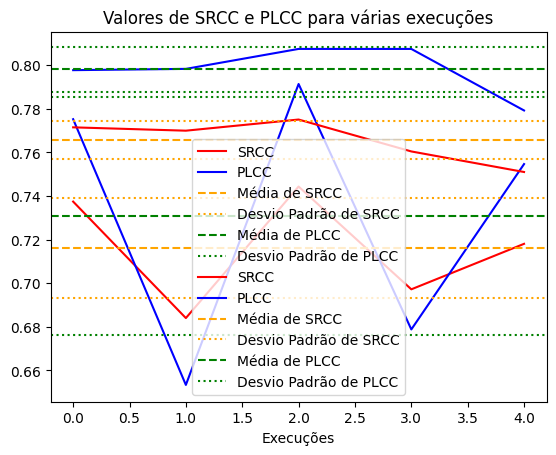
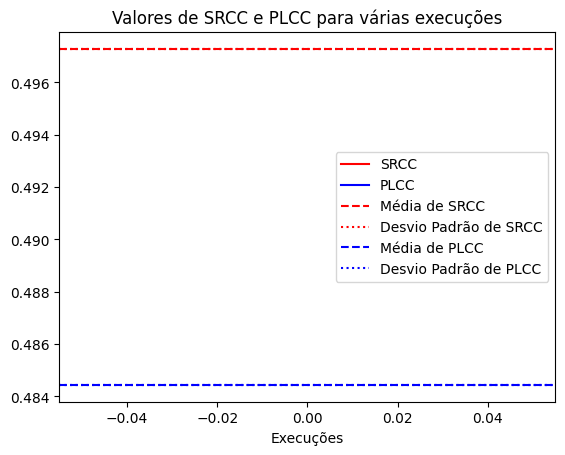
Adding regularization l2 and mos_zscore

diff --git a/image_classification/diqa_training.py b/image_classification/diqa_training.py
@@ -13,7 +13,7 @@ from train_test_nn.train import train_val_diqa
 from train_test_nn.test import validate_model_regression
 
 
-def execute_diqa(epochs:int, dataset_name:str, batch_size:int=1):
+def execute_diqa(epochs:int, model_name:str, dataset_name:str, batch_size:int=1):
     #O batch size não influencia o live, pois, como as imagens possuem tamanho diferente, é mais difícil de fazer os batchs (teria que mexer na função sampler)
     if dataset_name=='live':
         dataset = get_dataset('live', 'data/Live_IQA_release2/')
@@ -21,7 +21,7 @@ def execute_diqa(epochs:int, dataset_name:str, batch_size:int=1):
     elif dataset_name=='koniq-10k':
         dataset = get_dataset('koniq-10k', 'data/KonIQ-10k/', 'data/KonIQ-10k/512x384/')
     else:
-        raise Exception("não tem dataset")
+        raise Exception("Não tem esse dataset")
     
     train_dataset, test_dataset = random_split(dataset, [0.8,0.2]) 
 
@@ -30,45 +30,28 @@ def execute_diqa(epochs:int, dataset_name:str, batch_size:int=1):
 
 
     torch.cuda.init()
-    device = torch.device('cuda:0' if torch.cuda.is_available() else 'cpu')
+    device = torch.device('cuda:2' if torch.cuda.is_available() else 'cpu')
     torch.cuda.empty_cache()
 
-    model = OctDIQA().to(device)
-    optimizer = torch.optim.NAdam(model.parameters(), lr = 2 * 10 ** -4, momentum_decay=0.9)
+    if model_name == 'octdiqa':
+        model = OctDIQA().to(device)
+        print("Usando OctDIQA")
+    elif model_name == 'diqa':
+        model = DIQA().to(device)
+        print("Usando DIQA")
+    else:
+        raise Exception("Não tem esse modelo")
+    
+    optimizer = torch.optim.NAdam(model.parameters(), lr = 2 * 10 ** -4, weight_decay=5*(10**-4), momentum_decay=0.9)
     criterion = torch.nn.MSELoss()
 
-    print(torch.cuda.memory_summary(device=None, abbreviated=False))
+    #print(torch.cuda.memory_summary(device=None, abbreviated=False))
 
     all_losses = train_val_diqa(model, epochs, criterion, optimizer, device, trainloader, valloader)
 
     dict_metrics, mse_total, total = validate_model_regression(model, valloader, device, coefficients=["PLCC","SRCC"])
 
     return model, dict_metrics, all_losses
-
-def execute_diqa_koniq(epochs:int):
-
-    live_dataset = get_dataset('koniq-10k', 'data/KonIQ-10k/', 'data/KonIQ-10k/512x384/')
-    train_dataset, test_dataset = random_split(live_dataset, [0.8,0.2]) 
-
-    trainloader = DataLoader(train_dataset, batch_size = 4, shuffle = True, num_workers=2, pin_memory=True)
-    valloader = DataLoader(test_dataset, batch_size = 4, shuffle = True, num_workers = 2, pin_memory=True)
-
-
-    torch.cuda.init()
-    device = torch.device('cuda:0' if torch.cuda.is_available() else 'cpu')
-    torch.cuda.empty_cache()
-
-    model = DIQA().to(device)
-    optimizer = torch.optim.NAdam(model.parameters(), lr = 2 * 10 ** -4, momentum_decay=0.9)
-    criterion = torch.nn.MSELoss()
-
-    print(torch.cuda.memory_summary(device=None, abbreviated=False))
-
-    all_losses = train_val_diqa(model, epochs, criterion, optimizer, device, trainloader, valloader)
-
-    dict_metrics, mse_total, total = validate_model_regression(model, valloader, device, coefficients=["PLCC","SRCC"])
-
-    return model, dict_metrics
 
 def image_IQA(model, image_path):
     image = Image.open(image_path).convert('RGB')
@@ -88,14 +71,15 @@ def image_IQA(model, image_path):
     return quality
     
 def plot_srcc_list(srcc_list:list, plcc_list:list, name:str):
+    plt.figure()
     plt.plot(srcc_list,color='red', label='SRCC')
     plt.plot(plcc_list, color='blue', label='PLCC')
-    plt.axhline(np.mean(srcc_list), color='orange', linestyle='--', label='Média de SRCC')
-    plt.axhline(np.mean(srcc_list) + np.std(srcc_list), color='orange', linestyle=':', label='Desvio Padrão de SRCC')
-    plt.axhline(np.mean(srcc_list) - np.std(srcc_list), color='orange', linestyle=':')
-    plt.axhline(np.mean(plcc_list), color='green', linestyle='--', label='Média de PLCC')
-    plt.axhline(np.mean(plcc_list) + np.std(plcc_list), color='green', linestyle=':', label='Desvio Padrão de PLCC')
-    plt.axhline(np.mean(plcc_list) - np.std(plcc_list), color='green', linestyle=':')
+    plt.axhline(np.mean(srcc_list), color='red', linestyle='--', label='Média de SRCC')
+    plt.axhline(np.mean(srcc_list) + np.std(srcc_list), color='red', linestyle=':', label='Desvio Padrão de SRCC')
+    plt.axhline(np.mean(srcc_list) - np.std(srcc_list), color='red', linestyle=':')
+    plt.axhline(np.mean(plcc_list), color='blue', linestyle='--', label='Média de PLCC')
+    plt.axhline(np.mean(plcc_list) + np.std(plcc_list), color='blue', linestyle=':', label='Desvio Padrão de PLCC')
+    plt.axhline(np.mean(plcc_list) - np.std(plcc_list), color='blue', linestyle=':')
     plt.legend()
     plt.xlabel("Execuções")
     plt.title("Valores de SRCC e PLCC para várias execuções")
@@ -106,9 +90,9 @@ def write_metrics_txt(srcc_list:list, plcc_list:list, all_losses:list, name:str)
         f.write(f"Média do SRCC - {np.mean(srcc_list):.4f} e desvio padrão - {np.std(srcc_list):.4f}\n")
         f.write(f"Valores de SRCC - {srcc_list}\n\n")
         f.write(f"Média do PLCC - {np.mean(plcc_list):.4f} e desvio padrão de {np.std(plcc_list):.4f}\n")
-        f.write(f"Valores de PLCC - {plcc_list}\n")
+        f.write(f"Valores de PLCC - {plcc_list}\n\n")
         for losses in all_losses:
-            f.write(f"Evolução da loss: {losses}\n")
+            f.write(f"Evolução da loss:\n{losses}\n")
 
 if __name__ == '__main__':
     # model = DIQA()
@@ -117,13 +101,13 @@ if __name__ == '__main__':
     # img_path = "../image/arvores.jpg"
     # quality = image_IQA(model, image)
     # print(quality)
-    name = "DIQA_koniq"
-    epochs = 1
-    executions = 1
+    name = "DIQA_koniq_l2_mos_zscore"
+    epochs = 40
+    executions = 5
 
     srcc_list, plcc_list, loss_list = [], [], []
     for i in range(executions):
-        model, metrics, all_losses = execute_diqa(epochs, 'koniq-10k', 32)
+        model, metrics, all_losses = execute_diqa(epochs, 'diqa', 'koniq-10k', 16)
         srcc_list.append(metrics['SRCC'])
         plcc_list.append(metrics['PLCC'])
         loss_list.append(all_losses)
@@ -133,4 +117,22 @@ if __name__ == '__main__':
 
     plot_srcc_list(srcc_list, plcc_list, name)
 
-    write_metrics_txt(srcc_list, plcc_list, name)
+    write_metrics_txt(srcc_list, plcc_list, loss_list, name)
+
+    name = "OctDIQA_koniq_l2_mos_zscore"
+    epochs = 40
+    executions = 5
+
+    srcc_list, plcc_list, loss_list = [], [], []
+    for i in range(executions):
+        model, metrics, all_losses = execute_diqa(epochs, 'octdiqa', 'koniq-10k', 16)
+        srcc_list.append(metrics['SRCC'])
+        plcc_list.append(metrics['PLCC'])
+        loss_list.append(all_losses)
+        if metrics['SRCC'] >= max(srcc_list):
+            torch.save(model.state_dict(), f"trained_models/model_{name}_{epochs}.pth")
+            print(f"Saved PyTorch Model State to model on execution {i}.pth")
+
+    plot_srcc_list(srcc_list, plcc_list, name)
+
+    write_metrics_txt(srcc_list, plcc_list, loss_list, name)

diff --git a/image_classification/preprocess_images/dataset.py b/image_classification/preprocess_images/dataset.py
@@ -42,7 +42,7 @@ class KonIQ(Dataset):
         image = Image.open(img_path).convert('RGB')
         totensor = transforms.ToTensor()
         image = totensor(image)
-        label = self.csv_file.at[index, 'MOS']
+        label = self.csv_file.at[index, 'MOS_zscore']
         label = torch.tensor(label, dtype=torch.float32)
         if self.transform:
              image = self.transform(image)
@@ -65,7 +65,6 @@ def get_dataset(dataset:str = 'live', path:str = None, img_path:str = None):
             root_path = path
         csv_path = root_path + 'my_dmos_norm.csv'
 
-        print(os.listdir('../'))
         # Create the dataset
         dataframe = pd.read_csv(csv_path, sep=';')
         dataframe.pop('distorcion')
@@ -92,7 +91,8 @@ def get_dataset(dataset:str = 'live', path:str = None, img_path:str = None):
         csv_path = root_path + 'koniq10k_scores_and_distributions.csv'
 
         dataframe = pd.read_csv(csv_path)
-        dataframe = dataframe[['image_name', 'MOS']]
+        dataframe = dataframe[['image_name', 'MOS_zscore']]
+        dataframe['MOS_zscore'] = dataframe['MOS_zscore']/100.0
 
         dataset_final = KonIQ(dataframe, img_path, normalize_image)
     else:
@@ -105,4 +105,5 @@ if __name__ == '__main__':
     dataloader = torch.utils.data.DataLoader(a, batch_size=2, shuffle= True, collate_fn=custom_collate_fn, num_workers=2)
     print("loaded")
     for image, label in dataloader:
-        print(image.size)
+        if torch.max(label)>1.0:
+            print(torch.max(label))

diff --git a/image_classification/neural_networks/octconv.py b/image_classification/neural_networks/octconv.py
@@ -19,7 +19,7 @@ class OctaveConv(nn.Module):
         assert 0 <= alpha_in <= 1 and 0 <= alpha_out <= 1, "Alpha should be in the interval from 0 to 1"
         self.alpha_in, self.alpha_out = alpha_in, alpha_out
 
-        print("alpha_in: ", alpha_in, " alpha_out: ", alpha_out)
+        #print("alpha_in: ", alpha_in, " alpha_out: ", alpha_out)
         self.conv_l2l = None if alpha_in == 0 or alpha_out == 0 else \
                         nn.Conv2d(in_channels = int(alpha_in * in_channels), out_channels = int(alpha_out * out_channels), kernel_size = kernel_size, stride = 1, 
                                   padding = padding, dilation = dilation, groups=math.ceil(alpha_in * groups), bias = bias)

diff --git a/image_classification/train_test_nn/test.py b/image_classification/train_test_nn/test.py
@@ -60,7 +60,7 @@ def validate_model_regression(model, valloader, device='cpu', loss = 'mse', coef
             y_val.extend(labels)
             y_pred.extend(outputs.data)
 
-    print(f"Error on {len(valloader) * valloader.batch_size} val images: {mse_total/total}")
+    print(f"Error on {len(valloader) * valloader.batch_size} val images: {torch.sqrt(mse_total)/total}")
 
     if coefficients is not None:
         y_pred_gpu = torch.stack(y_pred,dim=0)
